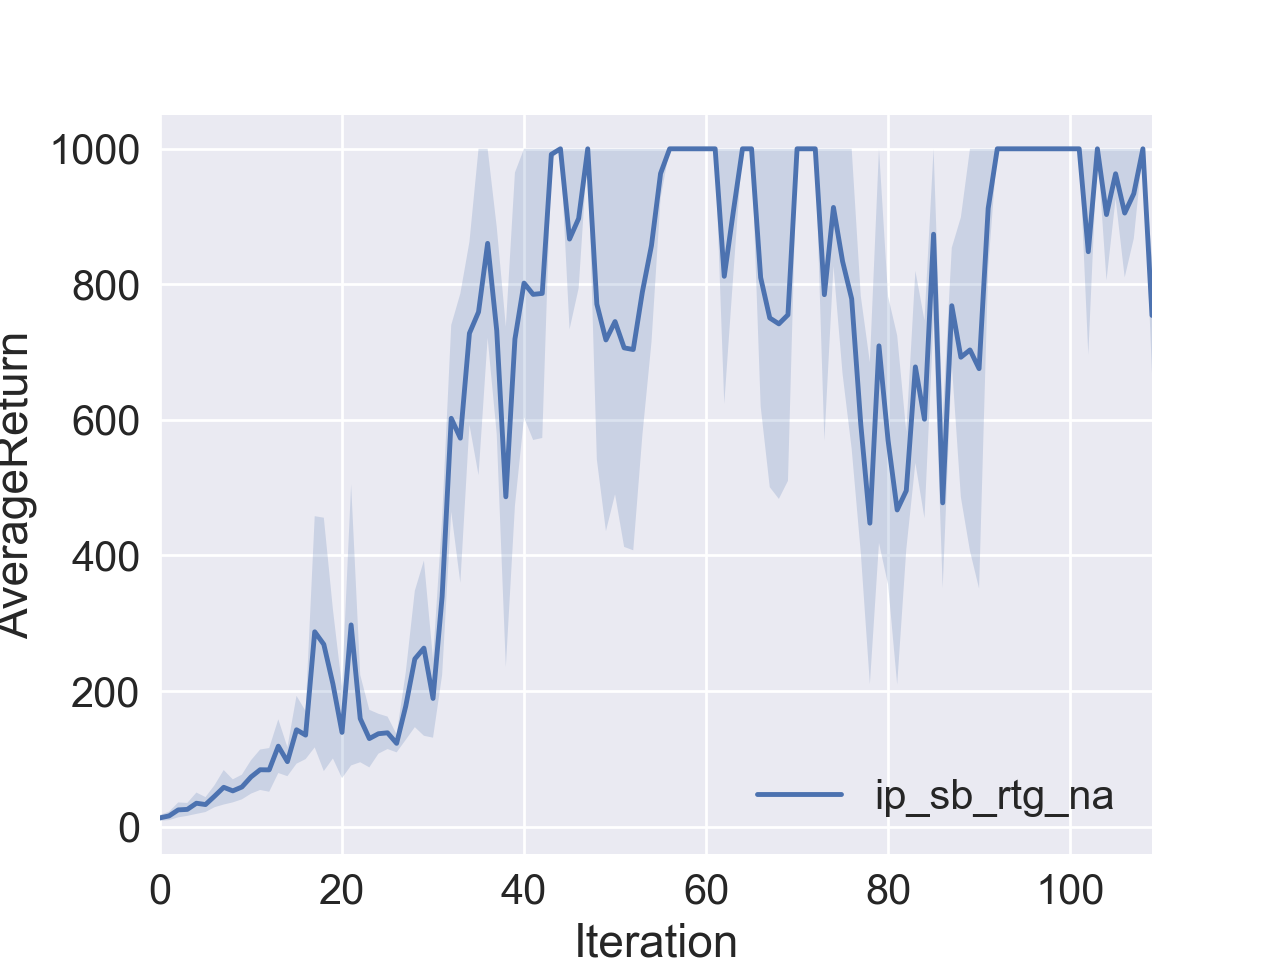
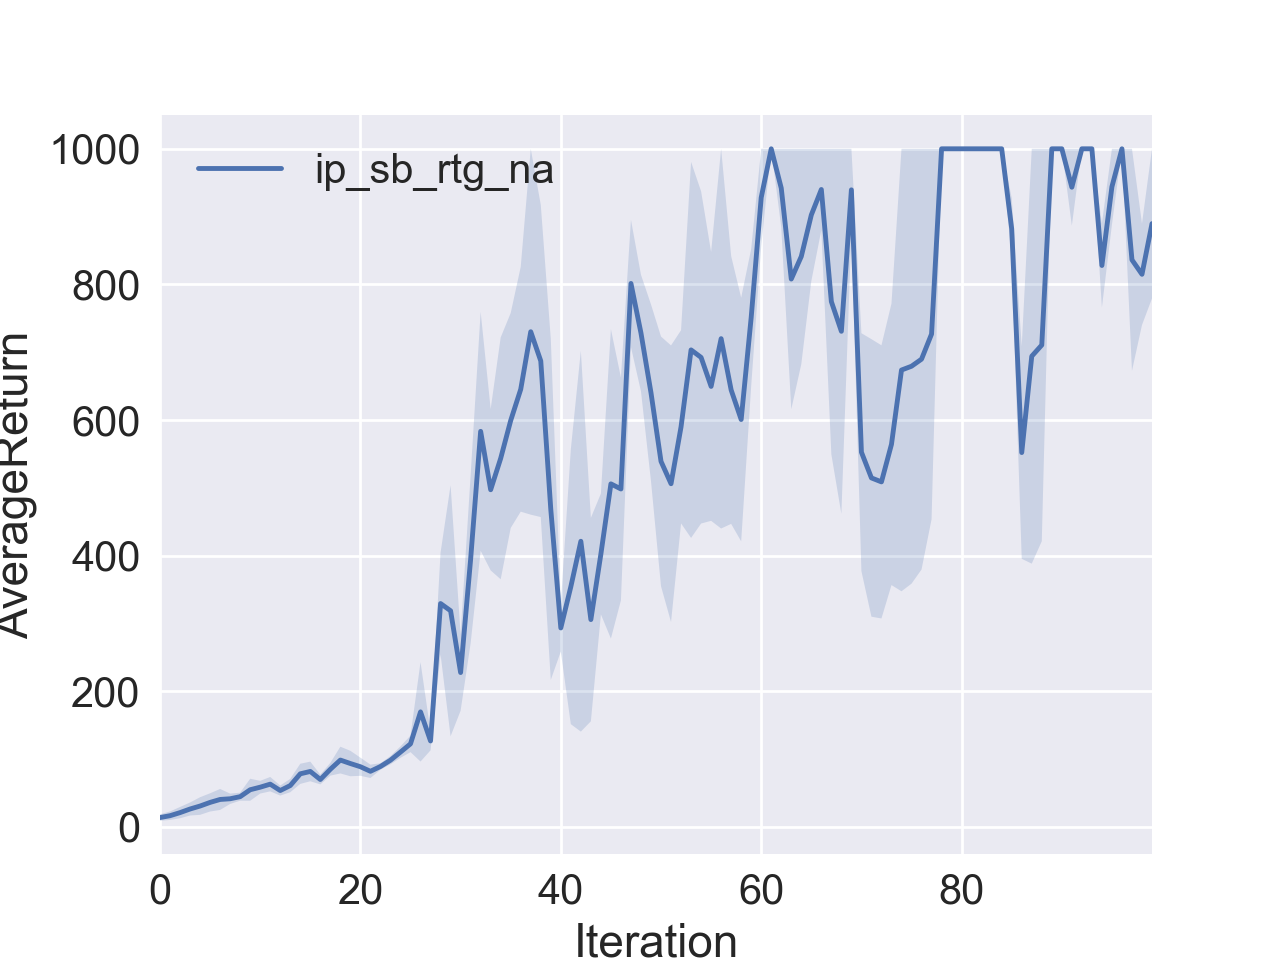
Complete section 4

diff --git a/hw2/report.md b/hw2/report.md
@@ -58,6 +58,10 @@ For this homework, I have completed implementing policy gradient for both discre
 
 6. Display a learning curve for InvertedPendulum-v1
 
+   ```bash
+   python train_pg.py InvertedPendulum-v1 -n 100 -b 1000 -e 5 -rtg --exp_name ip_sb_rtg_na --learning_rate 1e-2 --n_layers 2 --size 16
+   ```
+
    ![](fig/3. Inverted optimal 2*16.png)
 
    
